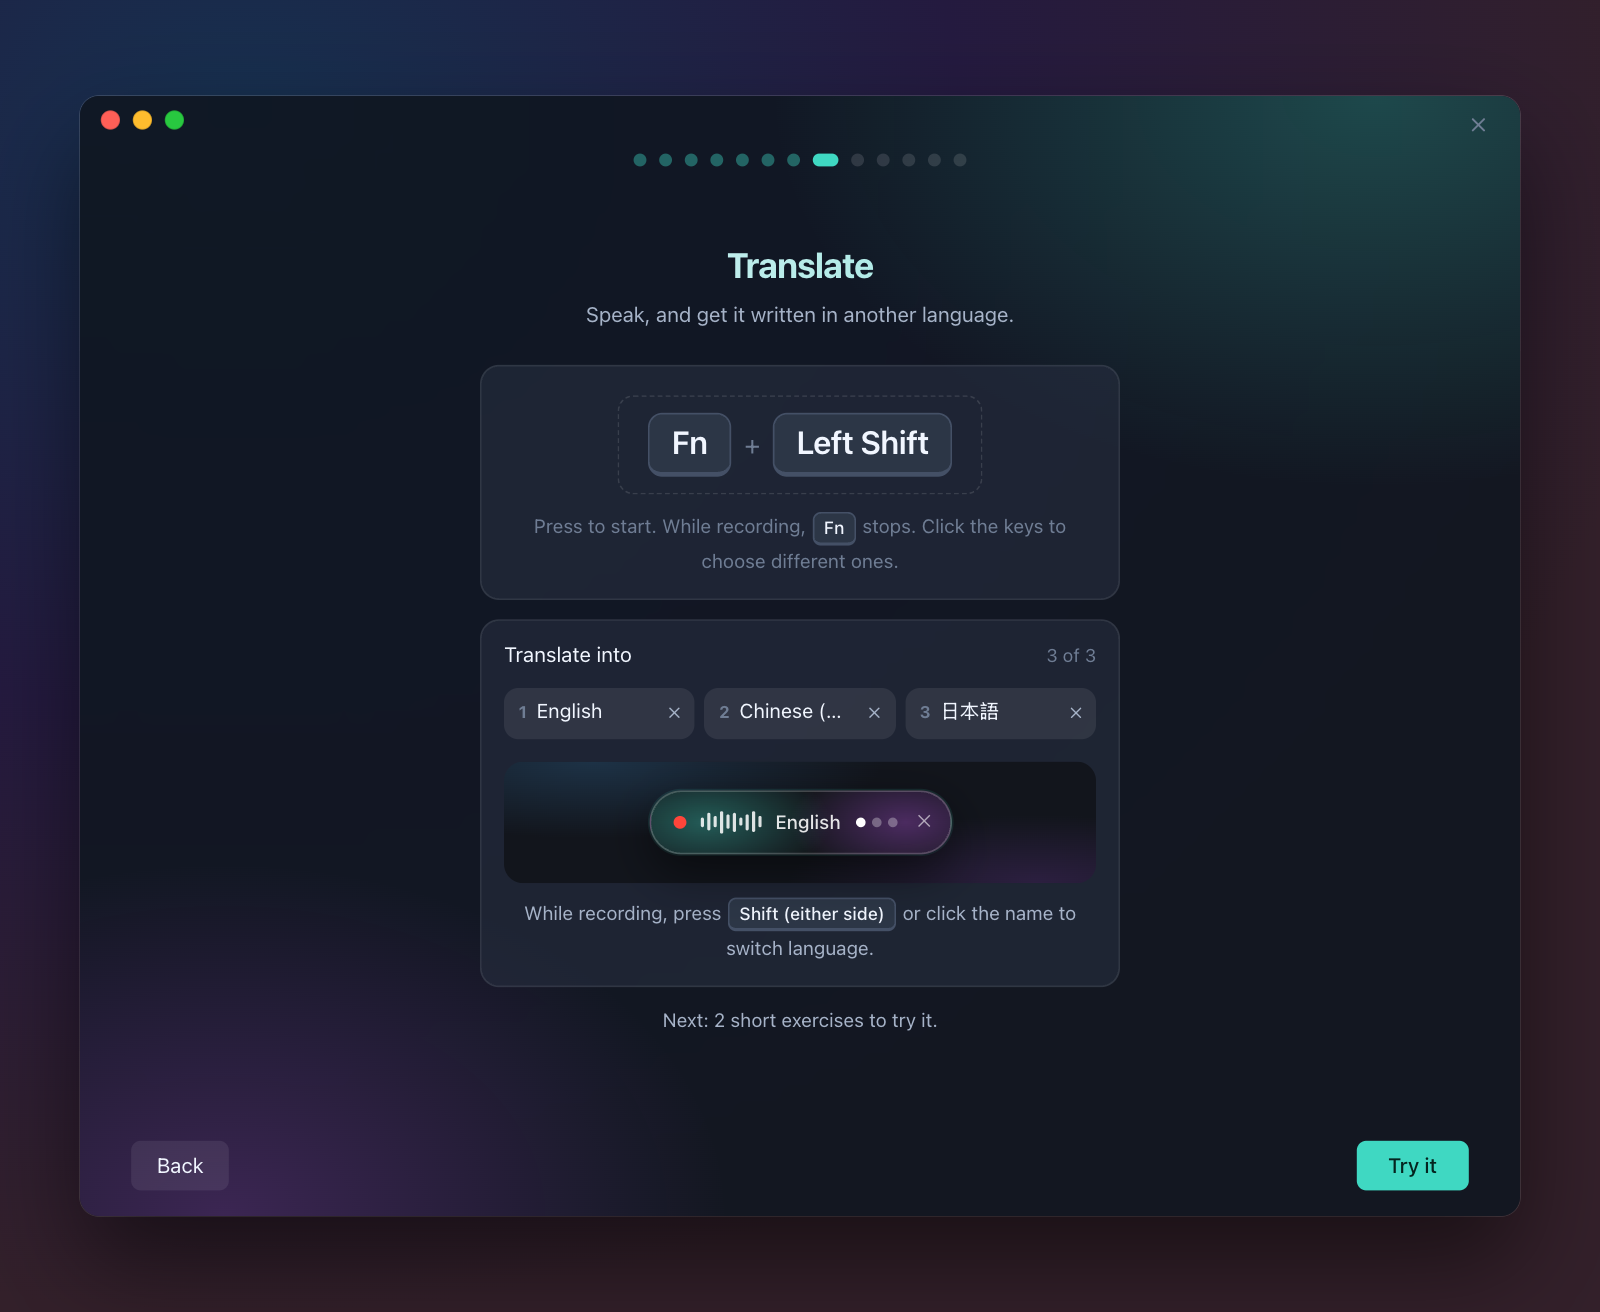
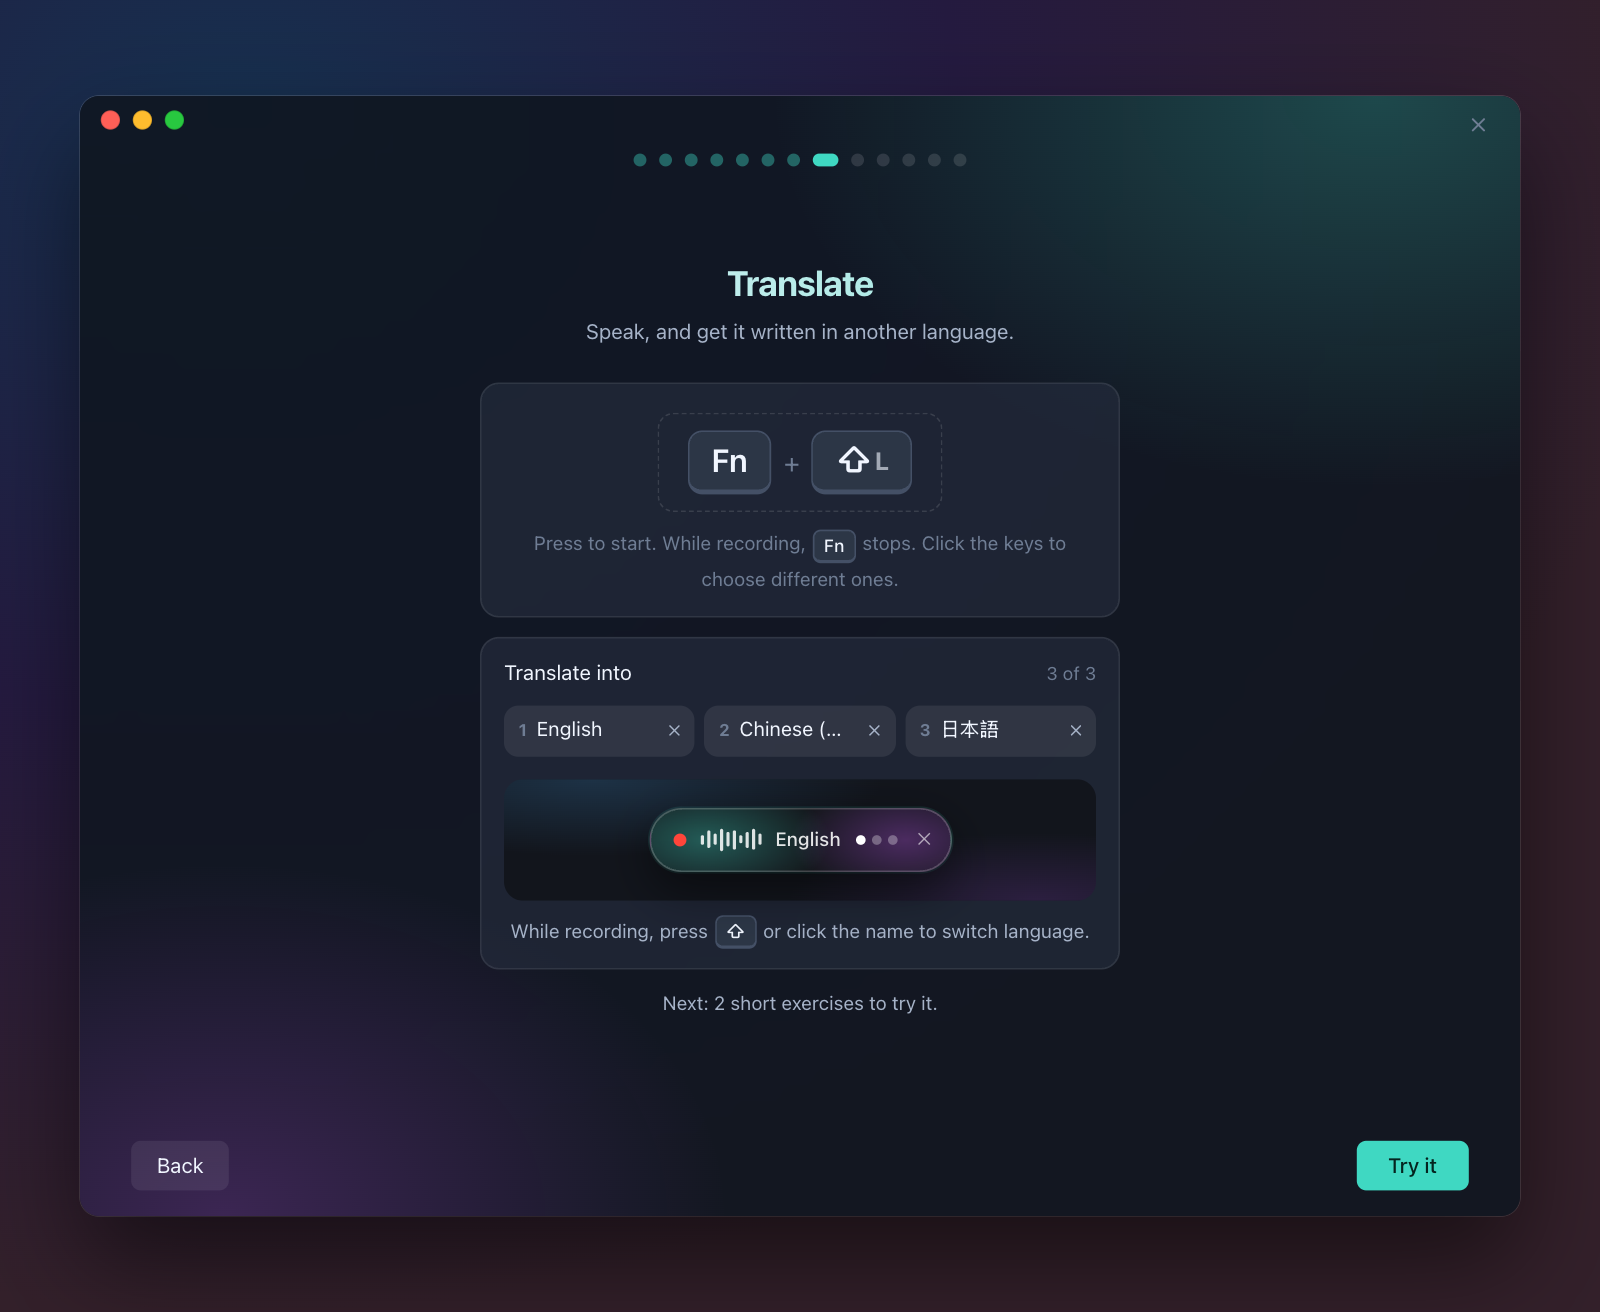
Site and media: the app's compact key caps
Key caps follow plan compact-key-labels (⇧ with a small side letter, Fn,
Space), with the app's cap sizes. Media re-captured on the new main.

diff --git a/site/src/sections/Features.tsx b/site/src/sections/Features.tsx
@@ -1,4 +1,5 @@
 import type { CSSProperties, ReactNode } from 'react'
+import { KeyCap } from '../components/KeyCap'
 import {
   AskVignette,
   CopyVignette,
@@ -22,7 +23,7 @@ function Keys({ keys }: { keys: string[] }) {
       {keys.map((k, i) => (
         <span key={k} style={{ display: 'inline-flex', alignItems: 'center', gap: 4 }}>
           {i > 0 && <span aria-hidden="true">+</span>}
-          <kbd className="kbd">{k}</kbd>
+          <KeyCap name={k} />
         </span>
       ))}
     </>
@@ -94,7 +95,7 @@ export function Features() {
             icon={<IconMic size={16} />}
             tag="Dictate"
             title="Speak messy, get clean text."
-            keys={['fn']}
+            keys={['Fn']}
             demo={<DictateVignette />}
           >
             Fillers out, self-corrections applied, punctuation in. Talk the way you talk; Typelite
@@ -106,7 +107,7 @@ export function Features() {
             icon={<IconGlobe size={16} />}
             tag="Translate"
             title="Say it, get it in another language."
-            keys={['fn', '⇧']}
+            keys={['Fn', 'LeftShift']}
             demo={<TranslateVignette />}
           >
             Up to three target languages. Press Shift or click the language on the pill to switch
@@ -119,7 +120,7 @@ export function Features() {
             icon={<IconSparkle size={16} />}
             tag="Ask anything"
             title="Ask about what you’ve highlighted."
-            keys={['fn', 'Space']}
+            keys={['Fn', 'Space']}
             demo={<AskVignette />}
           >
             Ask a question, or highlight text and say “make this shorter”. Answers appear in a small

diff --git a/site/src/components/KeyCap.tsx b/site/src/components/KeyCap.tsx
@@ -1,0 +1,42 @@
+/**
+ * A key cap drawn like the app's (src/components/ui/KeyCap.tsx): modifiers show their macOS
+ * symbol, a side-specific key adds a small side letter (⇧ + L), and screen readers get the full
+ * name.
+ */
+const KEYS: Record<string, { symbol: string; side?: string; full: string }> = {
+  Fn: { symbol: 'Fn', full: 'Fn' },
+  Space: { symbol: 'Space', full: 'Space' },
+  Shift: { symbol: '⇧', full: 'Shift' },
+  LeftShift: { symbol: '⇧', side: 'L', full: 'Left Shift' },
+  RightShift: { symbol: '⇧', side: 'R', full: 'Right Shift' },
+  Escape: { symbol: 'esc', full: 'Escape' },
+}
+
+export function KeyCap({
+  name,
+  large = false,
+  down = false,
+}: {
+  name: string
+  large?: boolean
+  down?: boolean
+}) {
+  const key = KEYS[name] ?? { symbol: name, full: name }
+  const className = `kbd ${large ? 'kbd-lg' : ''} ${down ? 'is-down' : ''}`
+  if (key.symbol === key.full) {
+    return (
+      <kbd className={className} title={key.full}>
+        {key.full}
+      </kbd>
+    )
+  }
+  return (
+    <kbd className={className} title={key.full}>
+      <span aria-hidden="true">
+        <span className="kbd-glyph">{key.symbol}</span>
+        {key.side && <span className="kbd-side">{key.side}</span>}
+      </span>
+      <span className="sr-only">{key.full}</span>
+    </kbd>
+  )
+}

diff --git a/site/src/styles.css b/site/src/styles.css
@@ -314,17 +314,18 @@ kbd {
   display: inline-flex;
   align-items: center;
   justify-content: center;
-  min-width: 24px;
+  min-width: 22px;
   padding: 2px 7px;
   border: 1px solid var(--key-line);
   border-bottom-width: 2px;
-  border-radius: 6px;
+  border-radius: 5px;
   background: var(--key);
   color: var(--text);
   font-family: var(--font-sans);
-  font-size: 12px;
-  font-weight: 600;
+  font-size: 11.5px;
+  font-weight: 500;
   line-height: 1.3;
+  white-space: nowrap;
   vertical-align: middle;
   transition:
     transform 0.08s ease,
@@ -332,11 +333,25 @@ kbd {
     background-color 0.12s ease;
 }
 .kbd-lg {
-  min-width: 44px;
-  padding: 6px 12px;
-  font-size: 17px;
-  border-radius: 9px;
+  min-width: 34px;
+  padding: 6px 14px;
   border-bottom-width: 3px;
+  border-radius: 9px;
+  font-size: 20px;
+  font-weight: 600;
+  line-height: 1.2;
+}
+/* Modifier symbol a little larger than words, with the small side letter after it (⇧ L). */
+.kbd-glyph {
+  font-size: 1.12em;
+  line-height: 1;
+}
+.kbd-side {
+  margin-left: 2px;
+  font-size: 0.78em;
+  font-weight: 700;
+  opacity: 0.6;
+  vertical-align: 1px;
 }
 .kbd.is-down {
   transform: translateY(2px);

diff --git a/site/src/demos/HeroDemo.tsx b/site/src/demos/HeroDemo.tsx
@@ -12,6 +12,7 @@ import {
   speechBetween,
 } from '../components/Pill'
 import { Stage } from '../components/Stage'
+import { KeyCap } from '../components/KeyCap'
 
 /**
  * The hero demo: a chat app on a desktop. Press fn, speak (the raw words appear in the
@@ -155,7 +156,7 @@ export function HeroFrame({ t }: { t: number }) {
       <div className="screen screen-hero">
         <div className="key-hint" aria-hidden="true">
           <span>Dictate</span>
-          <kbd className={`kbd kbd-lg ${keyDown ? 'is-down' : ''}`}>fn</kbd>
+          <KeyCap name="Fn" large down={keyDown} />
         </div>
         <div className="win chat" aria-hidden="true">
           <div className="win-bar">

diff --git a/site/src/demos/Vignettes.tsx b/site/src/demos/Vignettes.tsx
@@ -14,6 +14,7 @@ import {
   speechBetween,
 } from '../components/Pill'
 import { Stage } from '../components/Stage'
+import { KeyCap } from '../components/KeyCap'
 
 const fade = (t: number, at: number, len = 0.3): CSSProperties => {
   const p = easeOut(progress(t, at, at + len))
@@ -193,7 +194,7 @@ export function TranslateVignette() {
             </Pill>
             <div className="translate-keys" aria-hidden="true">
               <span>Switch language</span>
-              <kbd className={`kbd ${shiftDown ? 'is-down' : ''}`}>⇧</kbd>
+              <KeyCap name="Shift" down={shiftDown} />
               <span>or click the name</span>
             </div>
           </div>

diff --git a/site/src/sections/Setup.tsx b/site/src/sections/Setup.tsx
@@ -97,7 +97,7 @@ export function Setup() {
                           <span className="ready-dot">
                             <IconCheck size={12} strokeWidth={3} />
                           </span>
-                          Ready. Press fn and speak.
+                          Ready. Press Fn and speak.
                         </span>
                       ) : (
                         <span>{t < 0.9 ? 'About 3 GB, once.' : 'Downloading…'}</span>
